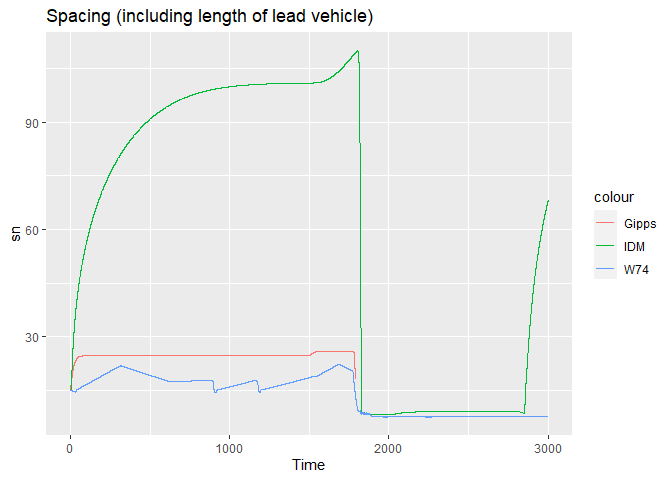
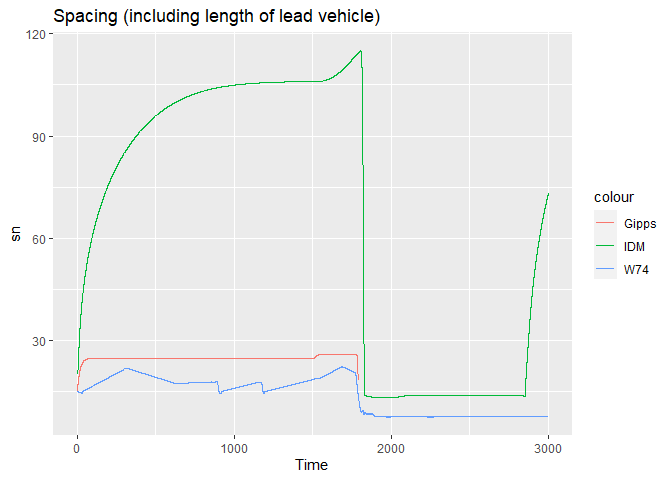
outputs are explained in readme; bn is now the common notation for acceleration of following vehicle; sn is now the common notation for front to front spacing

diff --git a/src/RcppExports.cpp b/src/RcppExports.cpp
@@ -6,8 +6,8 @@
 using namespace Rcpp;
 
 // for_loop_idm
-DataFrame for_loop_idm(double resolution, int n, int time_length, double s_0, double Tg, double a, double b, double v_0, double small_delta, double ln1, NumericVector Time, NumericVector vn, NumericVector vn1, NumericVector sn_star, NumericVector sn, NumericVector xn, NumericVector xn1, NumericVector deltav, NumericVector v_dot);
-RcppExport SEXP _carfollowingmodels_for_loop_idm(SEXP resolutionSEXP, SEXP nSEXP, SEXP time_lengthSEXP, SEXP s_0SEXP, SEXP TgSEXP, SEXP aSEXP, SEXP bSEXP, SEXP v_0SEXP, SEXP small_deltaSEXP, SEXP ln1SEXP, SEXP TimeSEXP, SEXP vnSEXP, SEXP vn1SEXP, SEXP sn_starSEXP, SEXP snSEXP, SEXP xnSEXP, SEXP xn1SEXP, SEXP deltavSEXP, SEXP v_dotSEXP) {
+DataFrame for_loop_idm(double resolution, int n, int time_length, double s_0, double Tg, double a, double b, double v_0, double small_delta, double ln1, NumericVector Time, NumericVector vn, NumericVector vn1, NumericVector sn_star, NumericVector sn, NumericVector frsn, NumericVector xn, NumericVector xn1, NumericVector deltav, NumericVector bn);
+RcppExport SEXP _carfollowingmodels_for_loop_idm(SEXP resolutionSEXP, SEXP nSEXP, SEXP time_lengthSEXP, SEXP s_0SEXP, SEXP TgSEXP, SEXP aSEXP, SEXP bSEXP, SEXP v_0SEXP, SEXP small_deltaSEXP, SEXP ln1SEXP, SEXP TimeSEXP, SEXP vnSEXP, SEXP vn1SEXP, SEXP sn_starSEXP, SEXP snSEXP, SEXP frsnSEXP, SEXP xnSEXP, SEXP xn1SEXP, SEXP deltavSEXP, SEXP bnSEXP) {
 BEGIN_RCPP
     Rcpp::RObject rcpp_result_gen;
     Rcpp::RNGScope rcpp_rngScope_gen;
@@ -26,11 +26,12 @@ BEGIN_RCPP
     Rcpp::traits::input_parameter< NumericVector >::type vn1(vn1SEXP);
     Rcpp::traits::input_parameter< NumericVector >::type sn_star(sn_starSEXP);
     Rcpp::traits::input_parameter< NumericVector >::type sn(snSEXP);
+    Rcpp::traits::input_parameter< NumericVector >::type frsn(frsnSEXP);
     Rcpp::traits::input_parameter< NumericVector >::type xn(xnSEXP);
     Rcpp::traits::input_parameter< NumericVector >::type xn1(xn1SEXP);
     Rcpp::traits::input_parameter< NumericVector >::type deltav(deltavSEXP);
-    Rcpp::traits::input_parameter< NumericVector >::type v_dot(v_dotSEXP);
-    rcpp_result_gen = Rcpp::wrap(for_loop_idm(resolution, n, time_length, s_0, Tg, a, b, v_0, small_delta, ln1, Time, vn, vn1, sn_star, sn, xn, xn1, deltav, v_dot));
+    Rcpp::traits::input_parameter< NumericVector >::type bn(bnSEXP);
+    rcpp_result_gen = Rcpp::wrap(for_loop_idm(resolution, n, time_length, s_0, Tg, a, b, v_0, small_delta, ln1, Time, vn, vn1, sn_star, sn, frsn, xn, xn1, deltav, bn));
     return rcpp_result_gen;
 END_RCPP
 }
@@ -95,7 +96,7 @@ END_RCPP
 }
 
 static const R_CallMethodDef CallEntries[] = {
-    {"_carfollowingmodels_for_loop_idm", (DL_FUNC) &_carfollowingmodels_for_loop_idm, 19},
+    {"_carfollowingmodels_for_loop_idm", (DL_FUNC) &_carfollowingmodels_for_loop_idm, 20},
     {"_carfollowingmodels_for_loop_gipps", (DL_FUNC) &_carfollowingmodels_for_loop_gipps, 19},
     {"_carfollowingmodels_for_loop_wiedemann", (DL_FUNC) &_carfollowingmodels_for_loop_wiedemann, 20},
     {NULL, NULL, 0}

diff --git a/src/code.cpp b/src/code.cpp
@@ -21,10 +21,11 @@ DataFrame for_loop_idm(double resolution,
                        NumericVector vn1,
                        NumericVector sn_star,
                        NumericVector sn,
+                       NumericVector frsn,
                        NumericVector xn,
                        NumericVector xn1,
                        NumericVector deltav,
-                       NumericVector v_dot
+                       NumericVector bn
 ) {
 
 
@@ -46,28 +47,28 @@ DataFrame for_loop_idm(double resolution,
     // # acceleration rate
     if (NumericVector::is_na(sn_star[t])) {
 
-      v_dot[t] = a * (1 - (pow((vn[t] / v_0), small_delta)));
+      bn[t] = a * (1 - (pow((vn[t] / v_0), small_delta)));
 
     } else {
 
-      v_dot[t] = a * (1 - (pow((vn[t] / v_0), small_delta)) - (pow((sn_star[t] / sn[t]), 2)));
+      bn[t] = a * (1 - (pow((vn[t] / v_0), small_delta)) - (pow((sn_star[t] / frsn[t]), 2)));
 
     }
 
 
 
-    if (v_dot[t] < -b){
+    if (bn[t] < -b){
 
-      v_dot[t] = -b;
+      bn[t] = -b;
 
     } else {
 
-      v_dot[t] = v_dot[t];
+      bn[t] = bn[t];
 
     }
 
     // # speed
-    vn[t+1] = vn[t] + (v_dot[t] * resolution);
+    vn[t+1] = vn[t] + (bn[t] * resolution);
 
     // ### if the speed is negative, make it zero
 
@@ -83,10 +84,12 @@ DataFrame for_loop_idm(double resolution,
 
 
     // # position
-    xn[t+1] = xn[t] + (vn[t] * resolution) + (0.5 * v_dot[t] * pow(resolution,2));
+    xn[t+1] = xn[t] + (vn[t] * resolution) + (0.5 * bn[t] * pow(resolution,2));
 
-    // # Bumper to bumper spacing
-    sn[t+1] = xn1[t+1] - xn[t+1] - ln1;
+    // # Spacing and Bumper to bumper spacing
+    sn[t+1] = xn1[t+1] - xn[t+1];
+
+    frsn[t+1] = sn[t+1] - ln1;
 
     // # speed difference
     deltav[t+1] = vn[t+1] - vn1[t+1];
@@ -99,12 +102,12 @@ DataFrame for_loop_idm(double resolution,
                                    Named("xn1") = xn1,
                                    Named("vn1") = vn1,
                                    Named("ln1") = ln1,
-                                   Named("sn_star") = sn_star,
-                                   Named("v_dot") = v_dot,
+                                   Named("bn") = bn,
                                    Named("xn") = xn,
                                    Named("vn") = vn,
                                    Named("sn") = sn,
-                                   Named("deltav") = deltav);
+                                   Named("deltav") = deltav,
+                                   Named("sn_star") = sn_star);
 
   return df;
 

diff --git a/README.md b/README.md
@@ -27,11 +27,11 @@ vehicle(s), and model parameters.
 
 The models used in this package are cited below:
 
-| Model                    | Citation                                                     |
-|--------------------------|--------------------------------------------------------------|
-| Intelligent Driver Model | Treiber and Arne Kesting (2013)                              |
-| Gipps Model              | Gipps (1981)                                                 |
-| Wiedemann 74 Model       | Wiedemann and Reiter (1992); Higgs, Abbas, and Medina (2011) |
+| Model                    | Citation                   |
+|--------------------------|----------------------------|
+| Intelligent Driver Model | @Treiber2013               |
+| Gipps Model              | @Gipps1981                 |
+| Wiedemann 74 Model       | @Wiedemann1992; @Higgs2011 |
 
 Following shows an example with 5 following vehicles. The lead vehicle
 is moving at 13.9 m/s at the reference position of 100 m.
@@ -118,20 +118,20 @@ b=1.5
 
 
 head(results_idm)
-#>   fvn Time    xn1  vn1 ln1  sn_star      v_dot       xn       vn       sn
-#> 1   1  0.0 100.00 13.9   5 9.418207 -1.4407191 85.00000 12.00000 10.00000
-#> 2   1  0.1 101.39 13.9   5 8.860068 -1.1565350 86.19280 11.85593 10.19720
-#> 3   1  0.2 102.78 13.9   5 8.420694 -0.9399018 87.37261 11.74027 10.40739
-#> 4   1  0.3 104.17 13.9   5 8.069309 -0.7704464 88.54193 11.64628 10.62807
-#> 5   1  0.4 105.56 13.9   5 7.785079 -0.6351232 89.70271 11.56924 10.85729
-#> 6   1  0.5 106.95 13.9   5 7.553349 -0.5252076 90.85646 11.50573 11.09354
-#>      deltav
-#> 1 -1.900000
-#> 2 -2.044072
-#> 3 -2.159725
-#> 4 -2.253716
-#> 5 -2.330760
-#> 6 -2.394273
+#>   fvn Time    xn1  vn1 ln1         bn       xn       vn       sn    deltav
+#> 1   1  0.0 100.00 13.9   5 -1.4407191 85.00000 12.00000 15.00000 -1.900000
+#> 2   1  0.1 101.39 13.9   5 -1.1565350 86.19280 11.85593 15.19720 -2.044072
+#> 3   1  0.2 102.78 13.9   5 -0.9399018 87.37261 11.74027 15.40739 -2.159725
+#> 4   1  0.3 104.17 13.9   5 -0.7704464 88.54193 11.64628 15.62807 -2.253716
+#> 5   1  0.4 105.56 13.9   5 -0.6351232 89.70271 11.56924 15.85729 -2.330760
+#> 6   1  0.5 106.95 13.9   5 -0.5252076 90.85646 11.50573 16.09354 -2.394273
+#>    sn_star
+#> 1 9.418207
+#> 2 8.860068
+#> 3 8.420694
+#> 4 8.069309
+#> 5 7.785079
+#> 6 7.553349
 ```
 
 Now you can plot the results:
@@ -268,13 +268,13 @@ results_w74d <- simulate_wiedemann74_driver(
 
 
 head(results_w74d)
-#>   fvn Time    xn1  vn1        bn       xn       vn       sn    deltav AX
-#> 1   1  0.0 100.00 13.9 0.5926839 85.00000 12.00000 15.00000 -1.900000  7
-#> 2   1  0.1 101.39 13.9 0.5782258 86.20296 12.05927 15.18704 -1.840732  7
-#> 3   1  0.2 102.78 13.9 0.5641204 87.41178 12.11709 15.36822 -1.782909  7
-#> 4   1  0.3 104.17 13.9 0.5503591 88.62631 12.17350 15.54369 -1.726497  7
-#> 5   1  0.4 105.56 13.9 0.5369335 89.84641 12.22854 15.71359 -1.671461  7
-#> 6   1  0.5 106.95 13.9 0.5238353 91.07195 12.28223 15.87805 -1.617768  7
+#>   fvn Time    xn1  vn1 ln1        bn       xn       vn       sn    deltav AX
+#> 1   1  0.0 100.00 13.9   5 0.5926839 85.00000 12.00000 15.00000 -1.900000  7
+#> 2   1  0.1 101.39 13.9   5 0.5782258 86.20296 12.05927 15.18704 -1.840732  7
+#> 3   1  0.2 102.78 13.9   5 0.5641204 87.41178 12.11709 15.36822 -1.782909  7
+#> 4   1  0.3 104.17 13.9   5 0.5503591 88.62631 12.17350 15.54369 -1.726497  7
+#> 5   1  0.4 105.56 13.9   5 0.5369335 89.84641 12.22854 15.71359 -1.671461  7
+#> 6   1  0.5 106.95 13.9   5 0.5238353 91.07195 12.28223 15.87805 -1.617768  7
 #>         BX      ABX CX      SDX        SDV      CLDV       OPDV      BMAX B_App
 #> 1 6.928203 13.92820 50 20.85641 0.02560000 0.1024000 -0.1536000 0.5926839    NA
 #> 2 6.945291 13.94529 50 20.89058 0.02681103 0.1072441 -0.1608662 0.5782258    NA
@@ -282,13 +282,13 @@ head(results_w74d)
 #> 4 6.978109 13.97811 50 20.95622 0.02919785 0.1167914 -0.1751871 0.5503591    NA
 #> 5 6.993866 13.99387 50 20.98773 0.03037064 0.1214826 -0.1822238 0.5369335    NA
 #> 6 7.009203 14.00920 50 21.01841 0.03152790 0.1261116 -0.1891674 0.5238353    NA
-#>   B_Emg BNULL cf_state_sim ln1
-#> 1    NA  0.25 free_driving   5
-#> 2    NA  0.25 free_driving   5
-#> 3    NA  0.25 free_driving   5
-#> 4    NA  0.25 free_driving   5
-#> 5    NA  0.25 free_driving   5
-#> 6    NA  0.25 free_driving   5
+#>   B_Emg BNULL cf_state_sim
+#> 1    NA  0.25 free_driving
+#> 2    NA  0.25 free_driving
+#> 3    NA  0.25 free_driving
+#> 4    NA  0.25 free_driving
+#> 5    NA  0.25 free_driving
+#> 6    NA  0.25 free_driving
 
 
 ## Speed
@@ -300,6 +300,35 @@ ggplot(data = results_w74d) +
 ```
 
 <img src="man/figures/README-unnamed-chunk-3-1.png" width="100%" />
+
+### Outputs
+
+| Variable       | Description                                                                                                                                   | Model       |
+|----------------|-----------------------------------------------------------------------------------------------------------------------------------------------|-------------|
+| fvn            | Following vehicle number                                                                                                                      | Common      |
+| Time           | Time in seconds                                                                                                                               | Common      |
+| xn1            | Position of front center of the lead vehicle                                                                                                  | Common      |
+| vn1            | Speed of the lead vehicle                                                                                                                     | Common      |
+| ln1            | Length of the lead vehicle                                                                                                                    | Common      |
+| bn             | Acceleration (positive and negative) of the following vehicle                                                                                 | Common      |
+| xn             | Position of front center of the following vehicle                                                                                             | Common      |
+| vn             | Speed of the following vehicle                                                                                                                | Common      |
+| sn             | Spacing between the front bumper of the following vehicle and the front bumper of the lead vehicle (including the length of the lead vehicle) | Common      |
+| deltav         | Speed difference (following vehicle speed - lead vehicle speed)                                                                               | Common      |
+| sn\_star       | Desired spacing                                                                                                                               | IDM         |
+| AX             | Standstill spacing                                                                                                                            | Wiedemann74 |
+| BX             | Calibration Parameter                                                                                                                         | Wiedemann74 |
+| ABX            | Minimum following distance                                                                                                                    | Wiedemann74 |
+| CX             | Calibration Parameter                                                                                                                         | Wiedemann74 |
+| SDX            | Minimum following distance + drift due to unequal speed difference in opening and closing                                                     | Wiedemann74 |
+| SDV            | Speed difference when driver perceives approaching a slow lead vehicle                                                                        | Wiedemann74 |
+| CLDV           | Speed difference when driver perceives closing in to lead vehicle                                                                             | Wiedemann74 |
+| OPDV           | Speed difference when driver perceives losing lead vehicle                                                                                    | Wiedemann74 |
+| BMAX           | Acceleration in Free-driving                                                                                                                  | Wiedemann74 |
+| B\_App         | Deceleration in Approaching                                                                                                                   | Wiedemann74 |
+| B\_Emg         | Deceleration in Emergency-braking                                                                                                             | Wiedemann74 |
+| BNULL          | Acceleration (positive and negative) in Following and at desired speed in Free-driving                                                        | Wiedemann74 |
+| cf\_state\_sim | Driving state (Free-driving, Approaching, Following, Emergency-braking)                                                                       | Wiedemann74 |
 
 ### Compare Models
 
@@ -348,41 +377,3 @@ ggplot() +
 <img src="man/figures/README-unnamed-chunk-4-2.png" width="100%" />
 
 # References
-
-<div id="refs" class="references csl-bib-body hanging-indent">
-
-<div id="ref-Gipps1981" class="csl-entry">
-
-Gipps, P G. 1981. “<span class="nocase">A behavioural car following
-model for computer simulation</span>.” *Transportation Research Part B*
-15: 101–15.
-
-</div>
-
-<div id="ref-Higgs2011" class="csl-entry">
-
-Higgs, Bryan, MM Abbas, and Alejandra Medina. 2011. “<span
-class="nocase">Analysis of the Wiedemann Car Following Model over
-Different Speeds using Naturalistic Data</span>.” *3rd International
-Conference on Road Safety and Simulation*, 1–22.
-
-</div>
-
-<div id="ref-Treiber2013" class="csl-entry">
-
-Treiber, Martin, and Arne Kesting. 2013. “<span class="nocase">Traffic
-flow dynamics</span>.” *Traffic Flow Dynamics: Data, Models and
-Simulation, Springer-Verlag Berlin Heidelberg*.
-
-</div>
-
-<div id="ref-Wiedemann1992" class="csl-entry">
-
-Wiedemann, Reiter, and U Reiter. 1992. “<span class="nocase">Microscopic
-traffic simulation: the simulation system MISSION, background and actual
-state</span>.” *Project ICARUS (V1052) Final Report. Brussels, CEC* 2:
-1–53.
-
-</div>
-
-</div>
